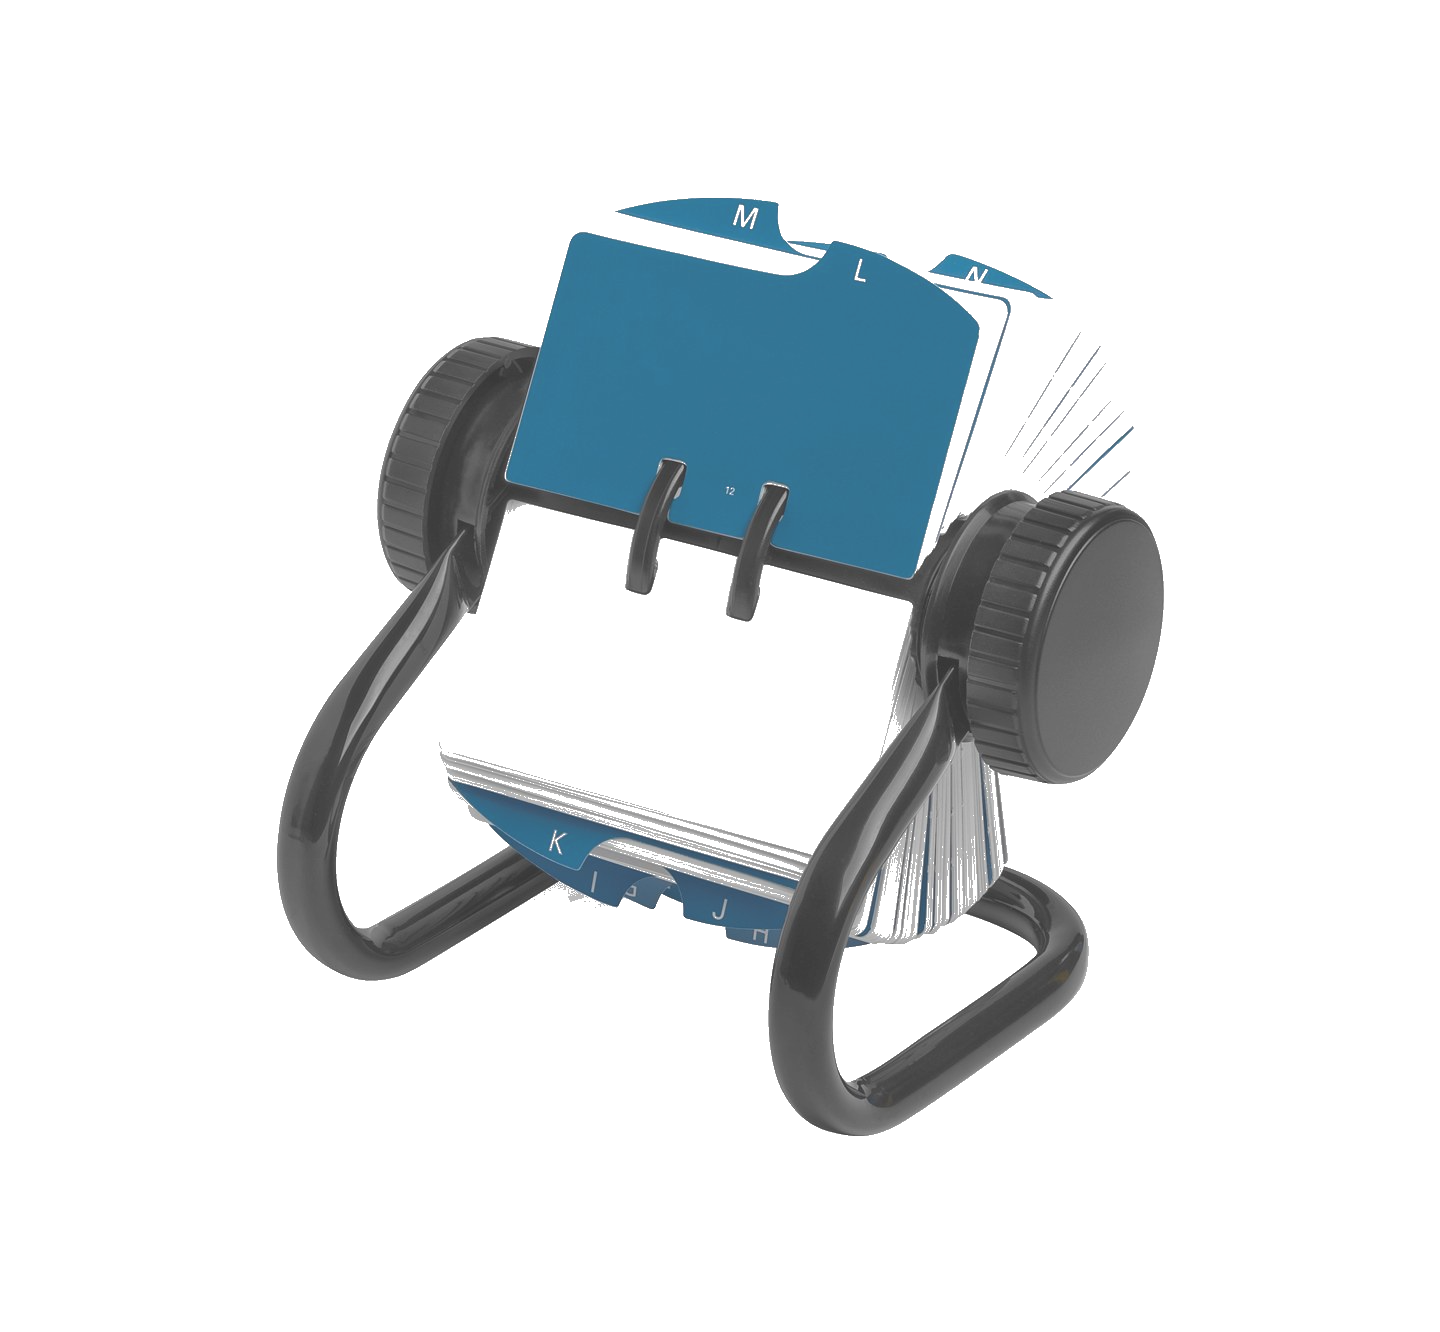
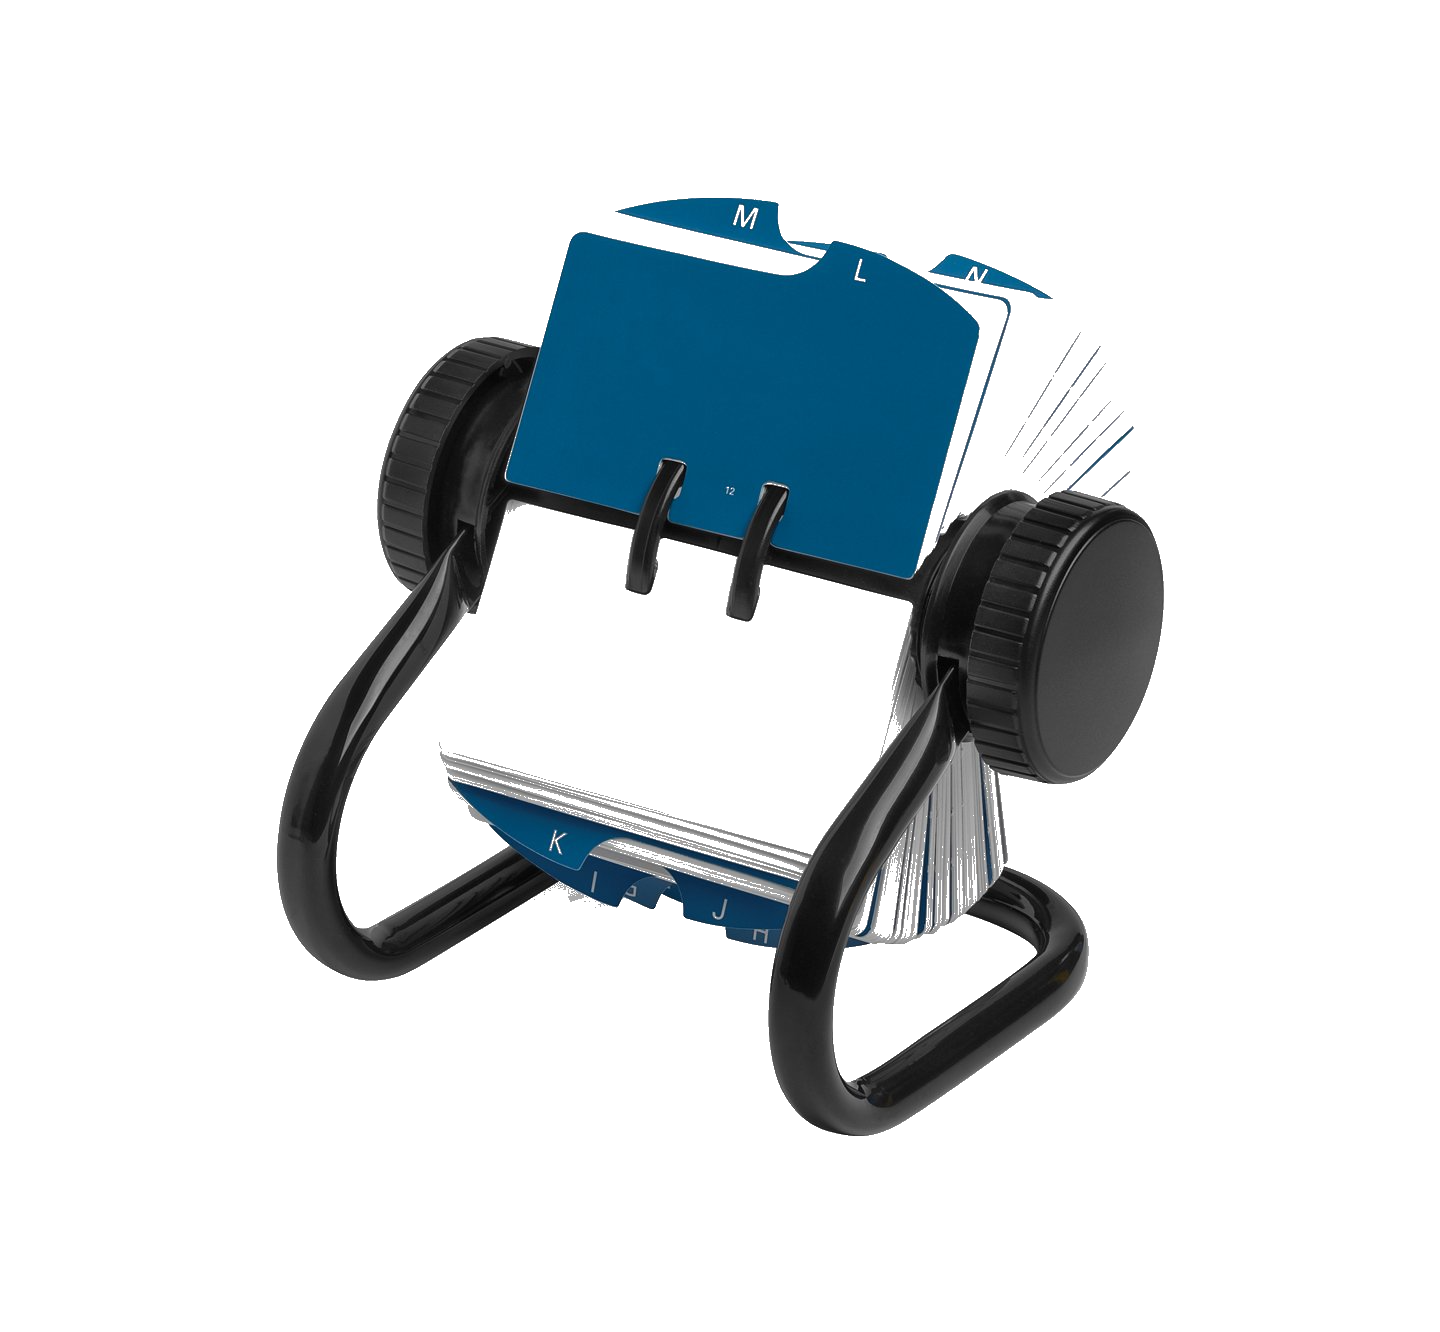
detail page done and additional styling

Changed region(s): [[0.1875, 0.1231, 0.8125, 0.8619]]

diff --git a/client/src/components/contactCard.js b/client/src/components/contactCard.js
@@ -13,29 +13,29 @@ export default function ContactCard({contact}){
                 <div className="general-info">
                     <div className="details">
                         <h1>
-                            {contact.first_name} {contact.last_name}
+                            {contact.firstName} {contact.lastName}
                         </h1>
 
                         <p className="position">
-                            {contact.position ? contact.position + ', ' : ''}{contact.company}
+                            {contact.company}
                         </p>
                     </div>
 
                     <div className="contact-info">
                         <div className="icon-text-group">
                             <MarkunreadRoundedIcon fontSize={"small"}/>
-                            <p className="underlined">{contact.email}</p>
+                            <p className="underlined">{contact.emailAddress}</p>
                         </div>
 
                         <div className="icon-text-group">
                             {/*TODO: Sophie format phone number*/}
                             <PhoneEnabledIcon fontSize={"small"}/>
-                            <p className="underlined">{contact.phone}</p>
+                            <p className="underlined">{contact.phoneNum}</p>
                         </div>
                     </div>
                 </div>
 
-                <div className="label-group">
+                {/* <div className="label-group">
                     {contact.labels.map((aLabel) => {
                         return (
                             <Button text={aLabel}
@@ -47,7 +47,7 @@ export default function ContactCard({contact}){
                                     border={'#FBF3F3 2px solid'} disabled={true}/>
                         );
                     })}
-                </div>
+                </div> */}
             </div>
 
             <div className="body">
@@ -64,7 +64,7 @@ export default function ContactCard({contact}){
                     <div className="meeting-history">
                         <h4>Meeting History</h4>
 
-                        <p>
+                        {/* <p>
                             {contact.meeting_history.map((aMeeting) => {
                                 return (
                                     <p>
@@ -72,7 +72,7 @@ export default function ContactCard({contact}){
                                     </p>
                                 );
                             })}
-                        </p>
+                        </p> */}
 
                         <div className="button-group">
                             <Button text={"Contacted Today"} fontSize={14}/>

diff --git a/client/src/pages/Home.js b/client/src/pages/Home.js
@@ -20,32 +20,24 @@ const tempContact = {
 }
 
 export default function Home() {
-    const [contacts, setContacts] = useState([tempContact, tempContact, tempContact, tempContact, tempContact]);
+    const [contacts, setContacts] = useState([]);
     const [category, setCategory] = useState('Contact Soon'); // String containing the category of contacts
-    const [prevTallest, setPrevTallest] = useState("first");
 
     const changeContacts = async (c, id) => {
         try {
-            const response = await fetch(`http://localhost:5000/category`, {
+            const response = await fetch(`http://127.0.0.1:5000/category`, {
                 method: 'POST',
                 headers: {
                     'Content-Type': 'application/json',
                 },
                 body: JSON.stringify({ category: c }), // Send category as an object with the key 'category'
             });
-
+            console.log("hi")
             if (!response.ok) {
                 console.log(response);
                 throw new Error('Network response was not ok');
             }
             const responseData = await response.json();
-            // const currElement = document.getElementById(id.toString());
-            // console.log(currElement.classList);
-            // currElement.classList.add('taller');
-            // const prevElement = document.getElementById(prevTallest);
-            // prevElement.classList.remove('taller');
-            // console.log(prevElement);
-            // setPrevTallest(currElement);
             setContacts(responseData);
             setCategory(c);
         } catch (error) {

diff --git a/client/src/pages/ContactDetails.js b/client/src/pages/ContactDetails.js
@@ -1,12 +1,36 @@
 import './ContactDetails.css';
 import { useParams } from 'react-router-dom';
+import ContactCard from '../components/contactCard';
+import { useState, useEffect } from 'react';
+
 
 function ContactDetails() {
-  const { id } = useParams(); // returns an object, and we only care about id
+  const { id } = useParams(); // extracts the id from the url
+
+  const [contact, setContact] = useState(null);
+
+  useEffect(() => {
+    const fetchContact = async () => {
+      try {
+        const response = await fetch(`http://127.0.0.1:5000/details?_id=${id}`);
+        const data = await response.json();
+        setContact(data);
+        console.log(data)
+      } catch (error) {
+        console.error('Error fetching contact details:', error);
+      }
+    };
+    fetchContact();
+  }, []);
+
+
   return (
     <div>
-      Contact details go here!
-      {id}
+      {contact ? (
+        <ContactCard contact={contact} />
+      ) : (
+        <p>Contact not found</p>
+      )}
     </div>
   );
 }

diff --git a/client/src/components/contactCell.js b/client/src/components/contactCell.js
@@ -8,8 +8,9 @@ import './contactCell.css'
 
 export default function ContactCell({contact}){
     const navigate = useNavigate();
+    console.log(contact);
     const toDetailPage = () => {
-        let path = `details/${contact.id}`;
+        let path = `/details/${contact._id}`
         navigate(path);
     }
 
@@ -31,12 +32,6 @@ export default function ContactCell({contact}){
                     <p className="text">{contact.phone}</p>
                 </div>
             </div>
-            <button 
-            className="edit-btn"
-            // onClick={toEditPage}
-            >
-                EDIT
-            </button>
             <IconButton className="icon"
                         size="large"
                         onClick={toDetailPage}

diff --git a/client/src/App.js b/client/src/App.js
@@ -18,7 +18,7 @@ function App() {
                         <Route path="add-contact" element={<AddContact />} />
                         <Route path="/home/edit-contact" element={<EditContact/>} />
                         <Route path="/" element={<Landing />} />
-                        <Route path="/details/:id" element={<ContactDetails/>}/>
+                        <Route path="/details/:id" element={<ContactDetails />} />
                     </Routes>
             </div>
         </div>
